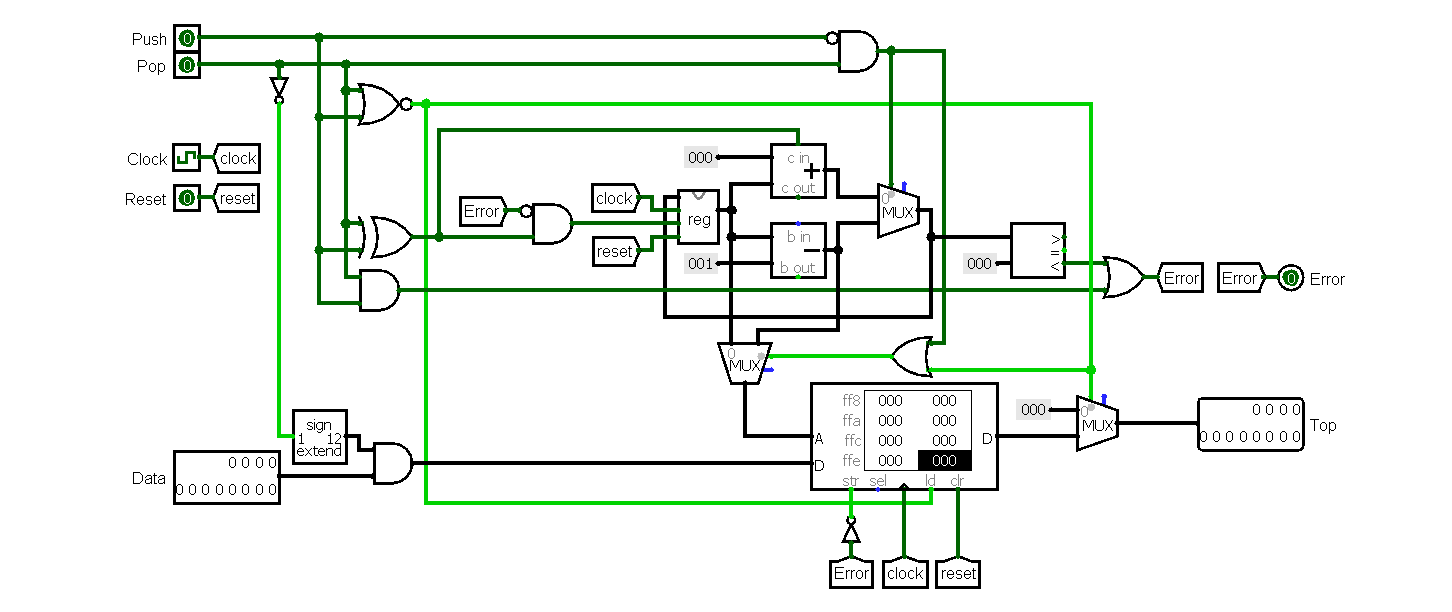
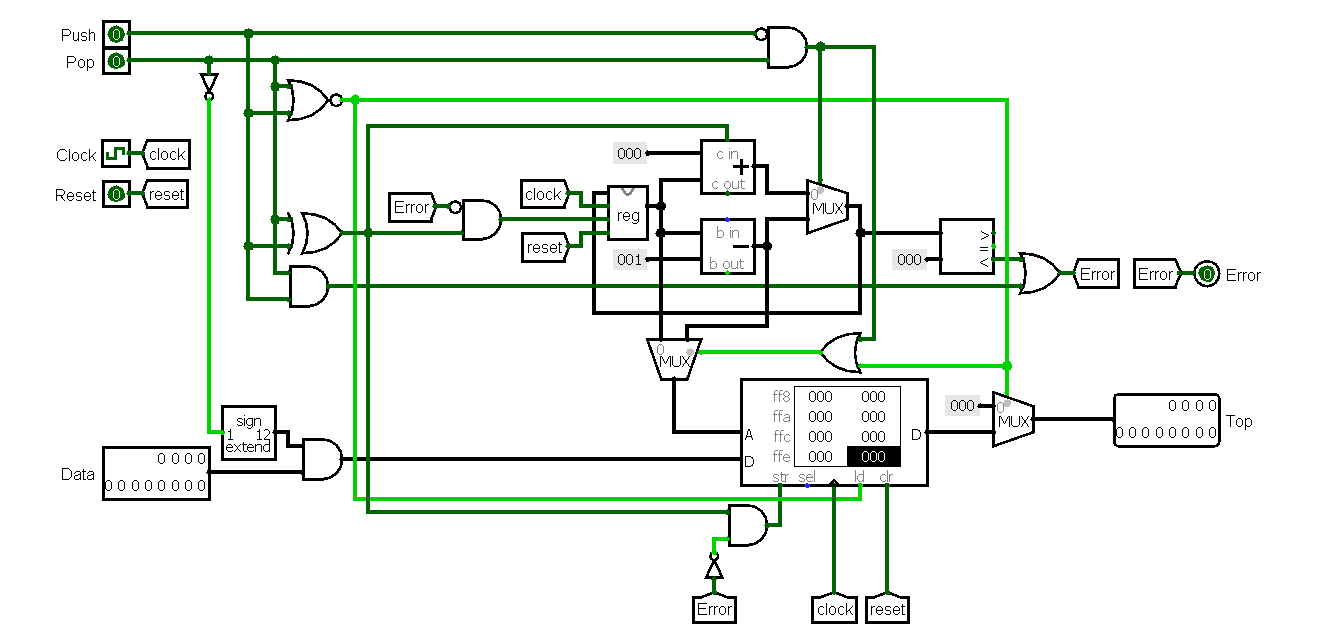
Verslag 4

Changed region(s): [[0.0307, 0.031, 0.9521, 0.9935]]

diff --git a/CA_PROJECT_4/Verslag.html b/CA_PROJECT_4/Verslag.html
@@ -133,6 +133,17 @@
     </div>
 
     <h2>Stack</h2>
+    <p>
+        Voor de stack gebruiken we opnieuw onze register. We register zal het 
+        adres van de top bijhouden. Hier zal bij een push 1 bij opgeteld worden
+        en bij een pop 1 van af getrokken. Verder wordt er gecontroleerd of de
+        input wel correct is. Als de push en pop aanstaan zal error aanspringen
+        of wanneer je een lege stack probeert te poppen. In het geval van een
+        error zal er niets veranderen aan het RAM geheugen of de register.
+        Enkel wanneer zowel push als pop uitstaan, zal de output de top waarde
+        weergeven. Ook in dit geval zal er niets veranderen aan het RAM
+        geheugen of de register.
+    </p>
     <div style="text-align:center;">
         <img src="images/stack.png" alt="Stack"/>
     </div>
